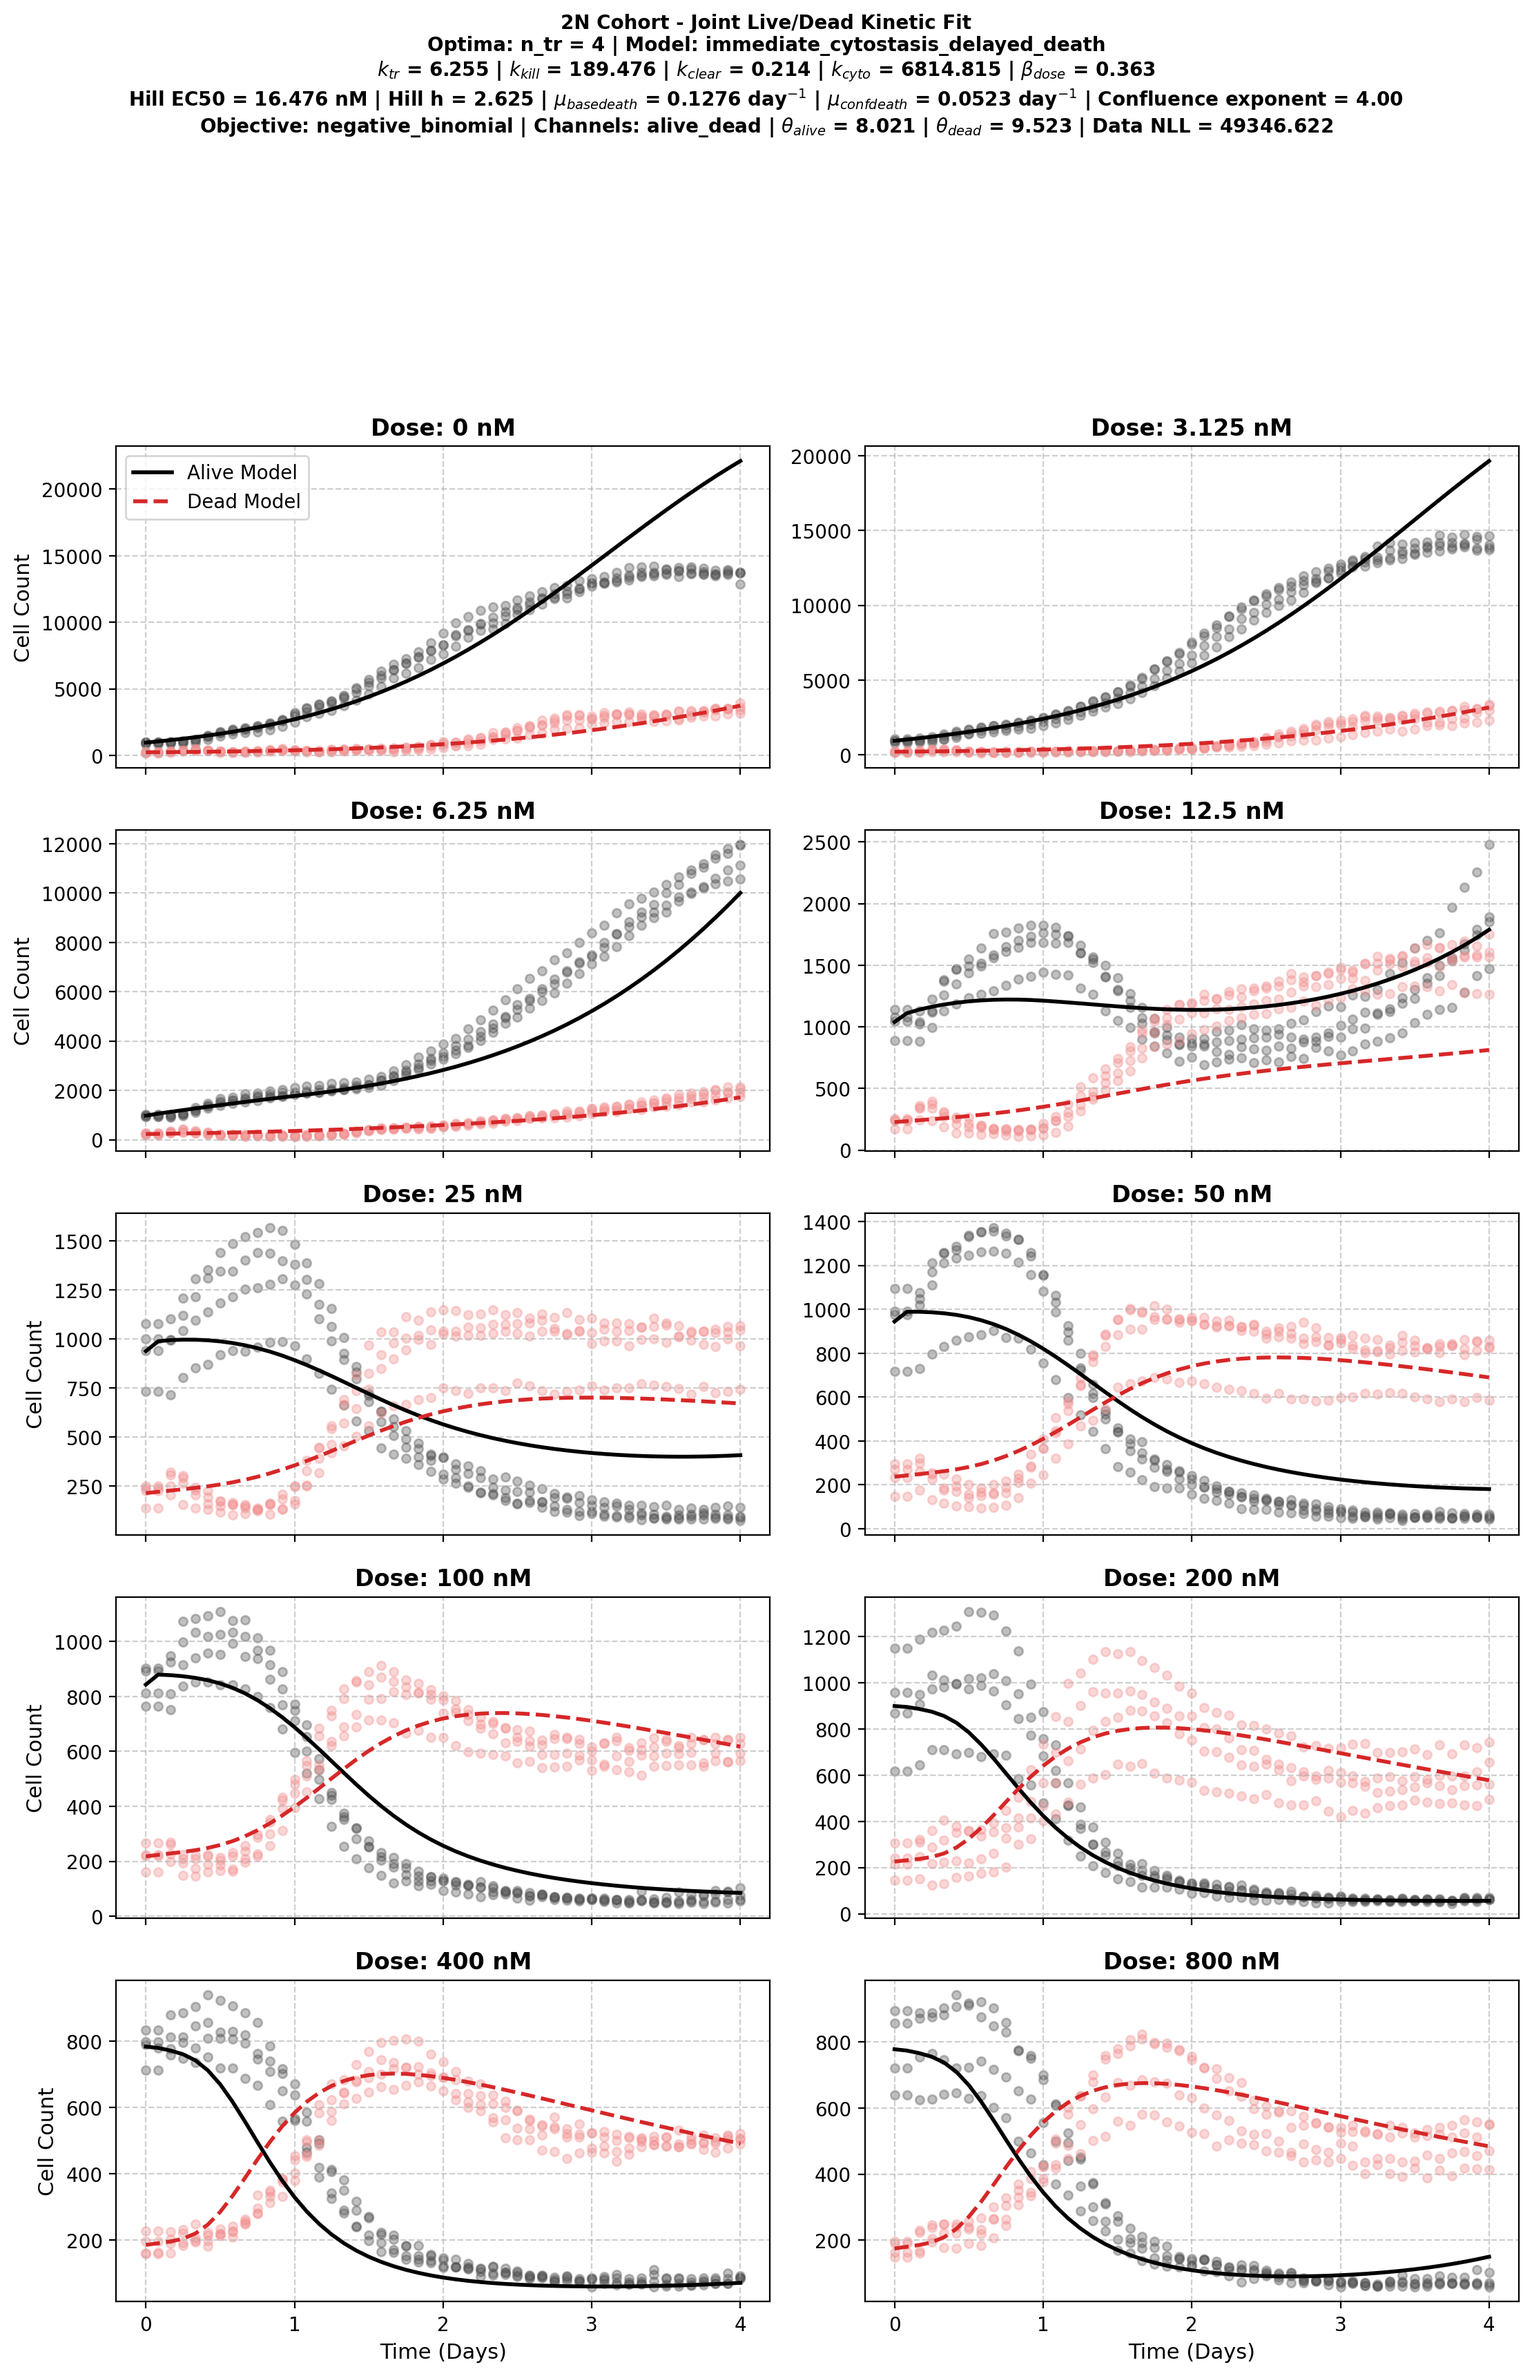
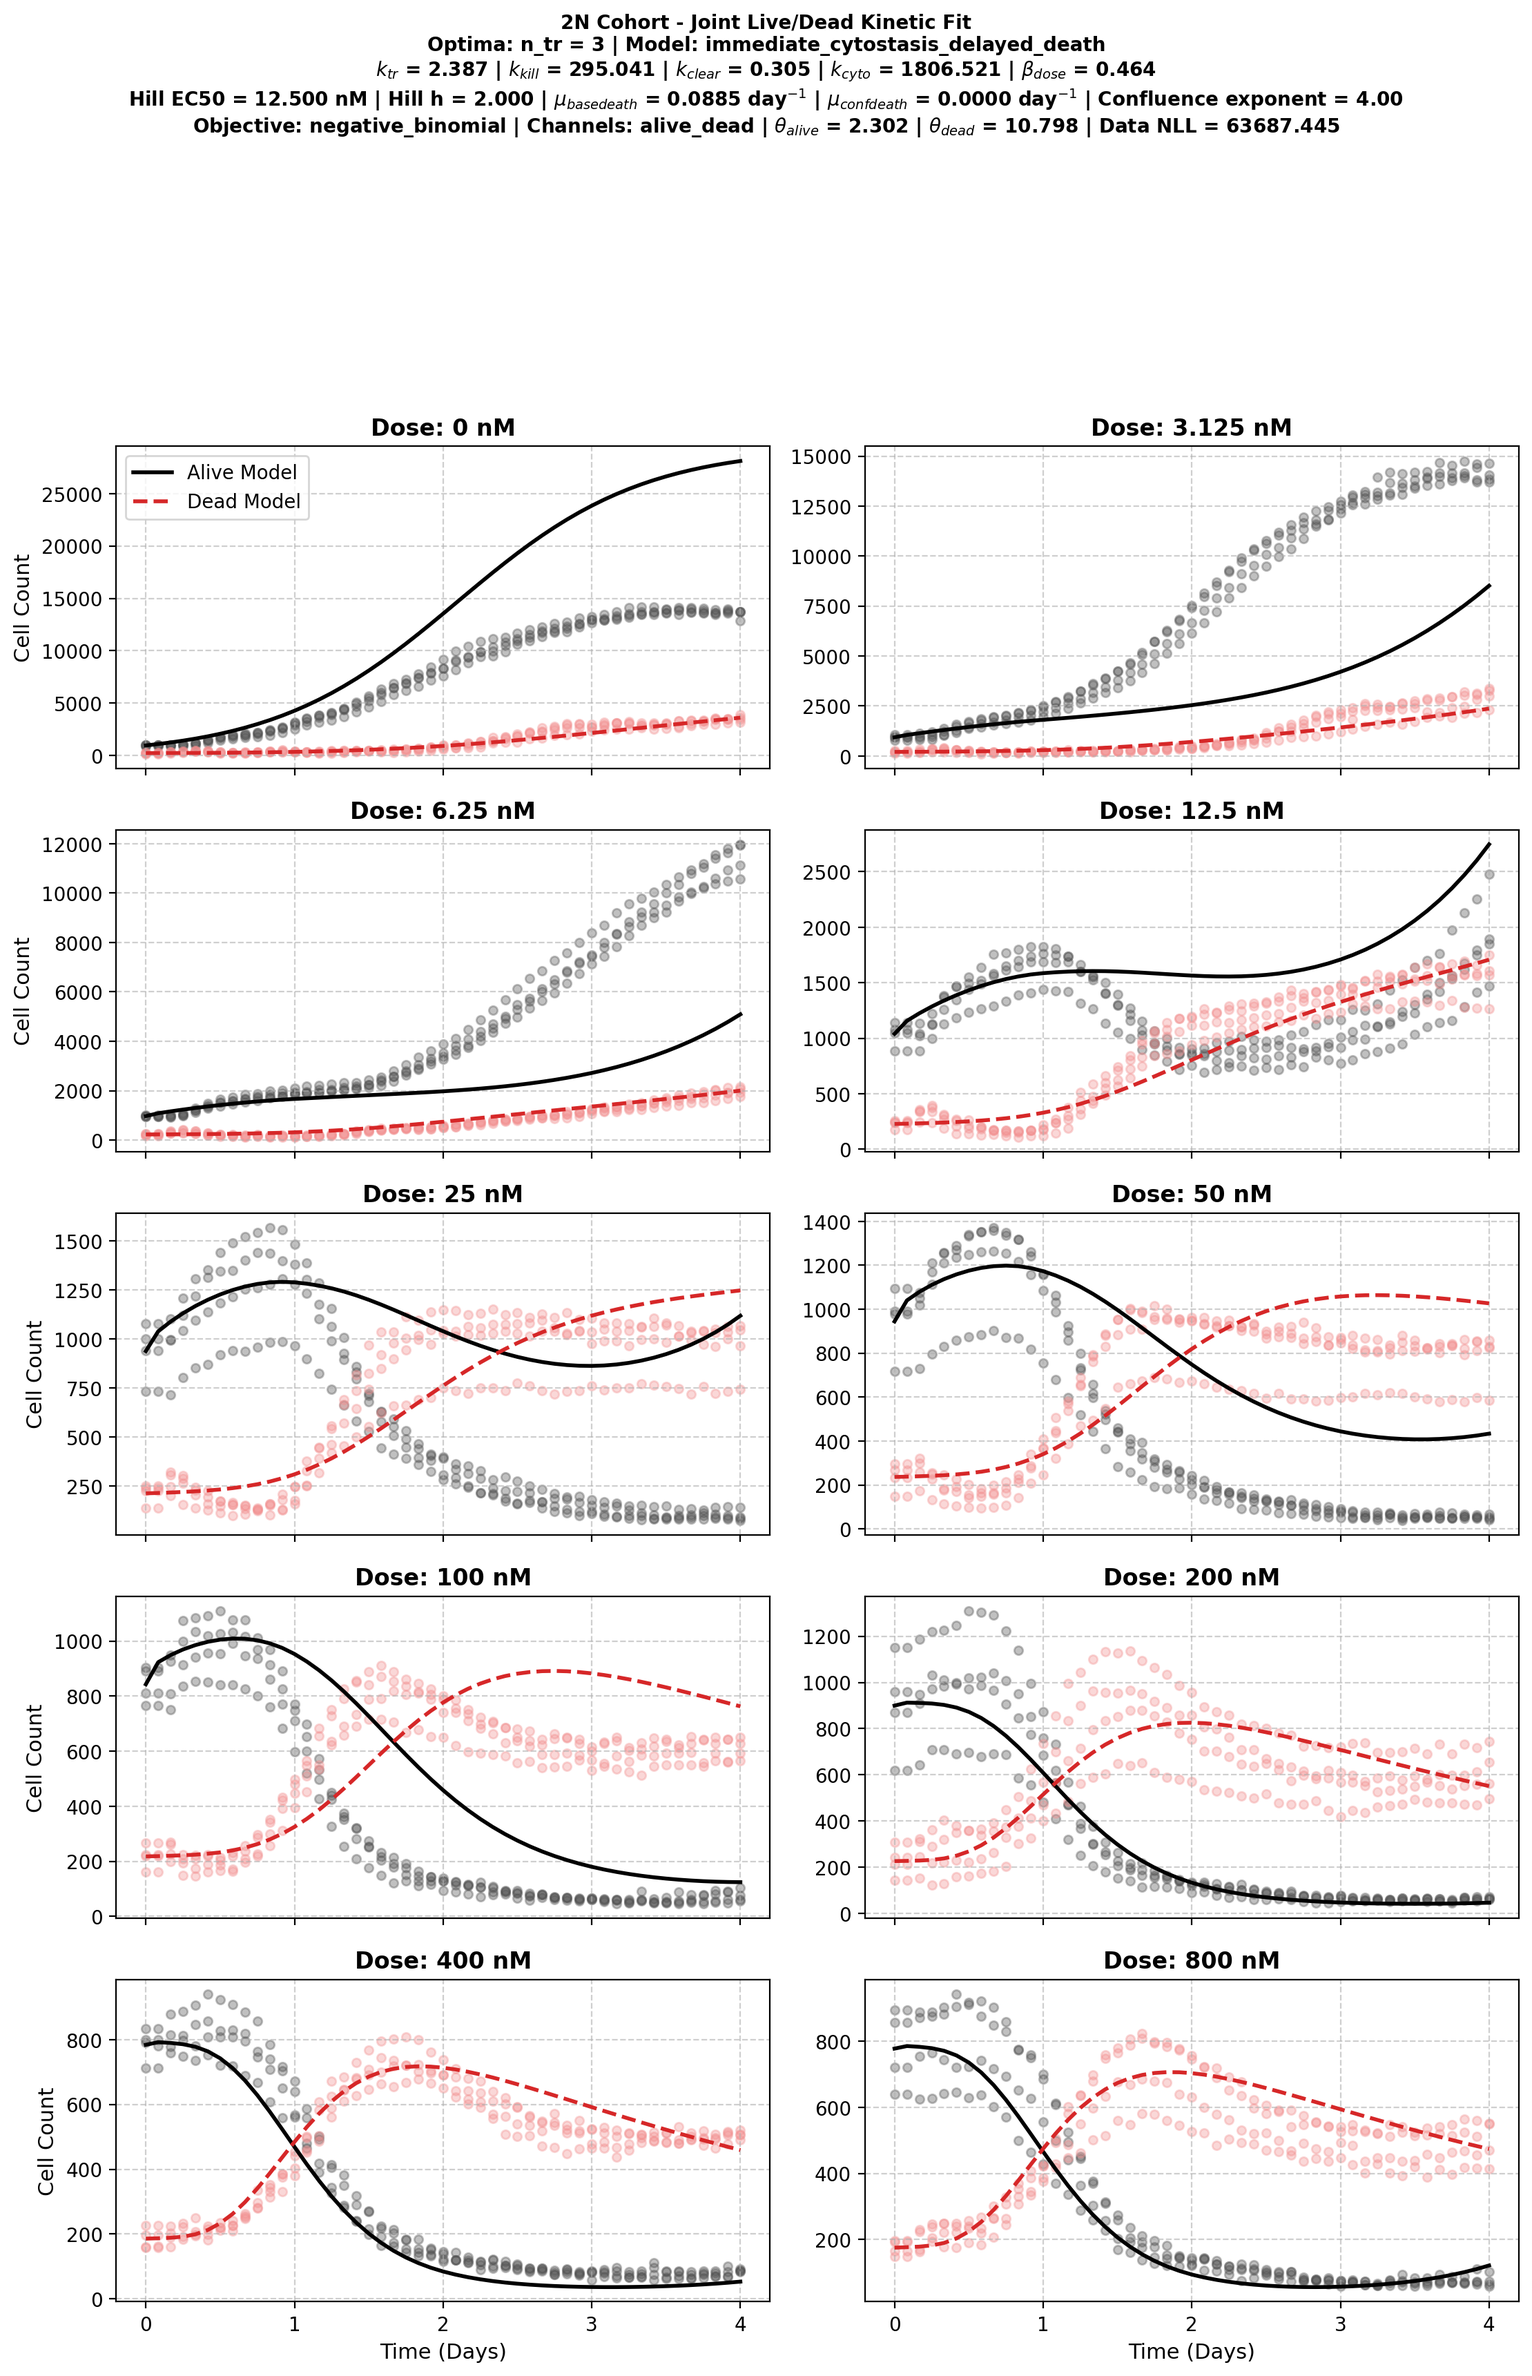
Validate full PKPD refit manuscript outputs
Completed the full-refit step from docs/manuscript_figure_output_standardization_plan.md. The manager ran the full PKPD fit over all configured n_tr values and optimizer starts with --jobs 6, regenerated downstream PKPD plots from the new joint_fit_summary.tsv, and materialized the PKPD-backed Figure4, Figure5, and Supplementary assets from the full-refit run.

Changed workflow components/files: added Results/in-vitro/pkpd_live_dead_model/runs/20260629T143000_full_refit_pkpd_fit with joint_fit_summary.tsv, optimizer_attempts.tsv, PK tail/effective-signal/model diagnostic tables, logs, manifests, and regenerated PKPD figures; updated figures/Figure4, figures/Figure5, and figures/Supplementary manifests/assets to point to the full-refit run; adjusted Code/tools/figure_output_contract.py to avoid trailing empty final manifest fields; adjusted Code/in-vitro/pkpd_live_dead_model/src/invitro_fitting.py so PK tail diagnostics do not emit trailing empty warning fields.
[…]

diff --git a/Code/tools/figure_output_contract.py b/Code/tools/figure_output_contract.py
@@ -112,7 +112,10 @@ def write_tsv(path: Path, rows: Sequence[Mapping[str, object]], columns: Sequenc
         writer = csv.DictWriter(handle, fieldnames=list(columns), delimiter="\t", lineterminator="\n")
         writer.writeheader()
         for row in rows:
-            writer.writerow({key: row.get(key, "") for key in columns})
+            out_row = {key: row.get(key, "") for key in columns}
+            if columns and not str(out_row.get(columns[-1], "")).strip():
+                out_row[columns[-1]] = "."
+            writer.writerow(out_row)
 
 
 def ensure_columns(headers: Sequence[str], required: Sequence[str], manifest_path: Path) -> list[str]:

diff --git a/Code/in-vitro/pkpd_live_dead_model/src/invitro_fitting.py b/Code/in-vitro/pkpd_live_dead_model/src/invitro_fitting.py
@@ -1273,6 +1273,7 @@ def save_pk_tail_diagnostics(
 ) -> Path:
     output_dir.mkdir(parents=True, exist_ok=True)
     diagnostics_df = collect_pk_tail_diagnostics(curves_by_ploidy)
+    diagnostics_df["warning_message"] = diagnostics_df["warning_message"].replace("", ".")
     output_path = output_dir / "pk_tail_fit_diagnostics.tsv"
     diagnostics_df.to_csv(output_path, sep="\t", index=False)
     return output_path
